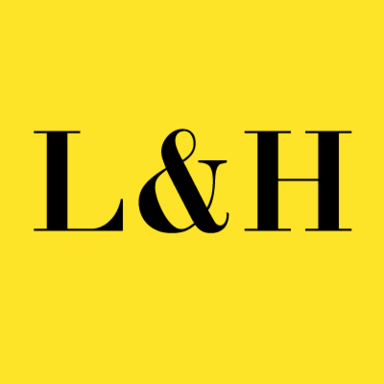
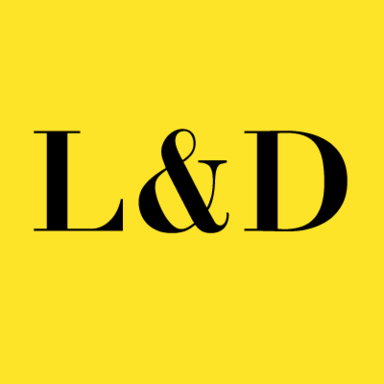
can't believe I screwed up our own initials, fixed

Changed region(s): [[0.7188, 0.3125, 0.9375, 0.625], [0.6562, 0.3438, 0.6875, 0.5938]]

diff --git a/src/components/Navigation.vue b/src/components/Navigation.vue
@@ -2,7 +2,7 @@
     <header class="lh-header">
      <div class="lh-logo">
             <router-link to="/">
-                <span class="text-logo">L&H</span>
+                <span class="text-logo">L&D</span>
             </router-link>
         </div>
         <div class="lh-header-container">
